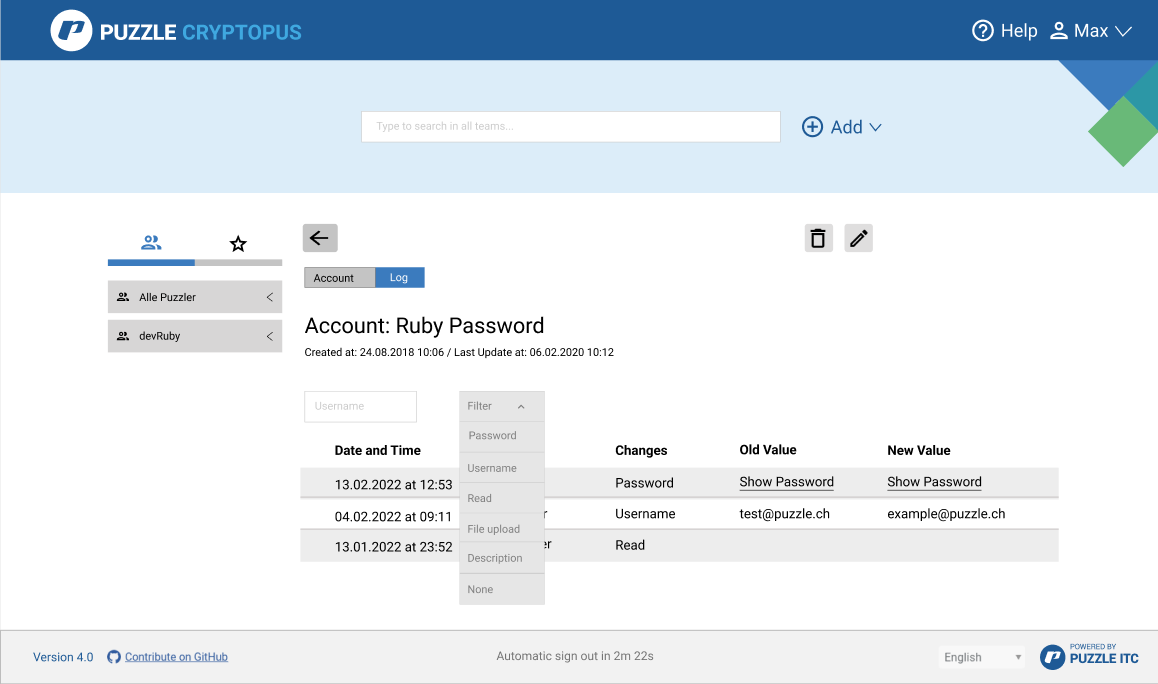
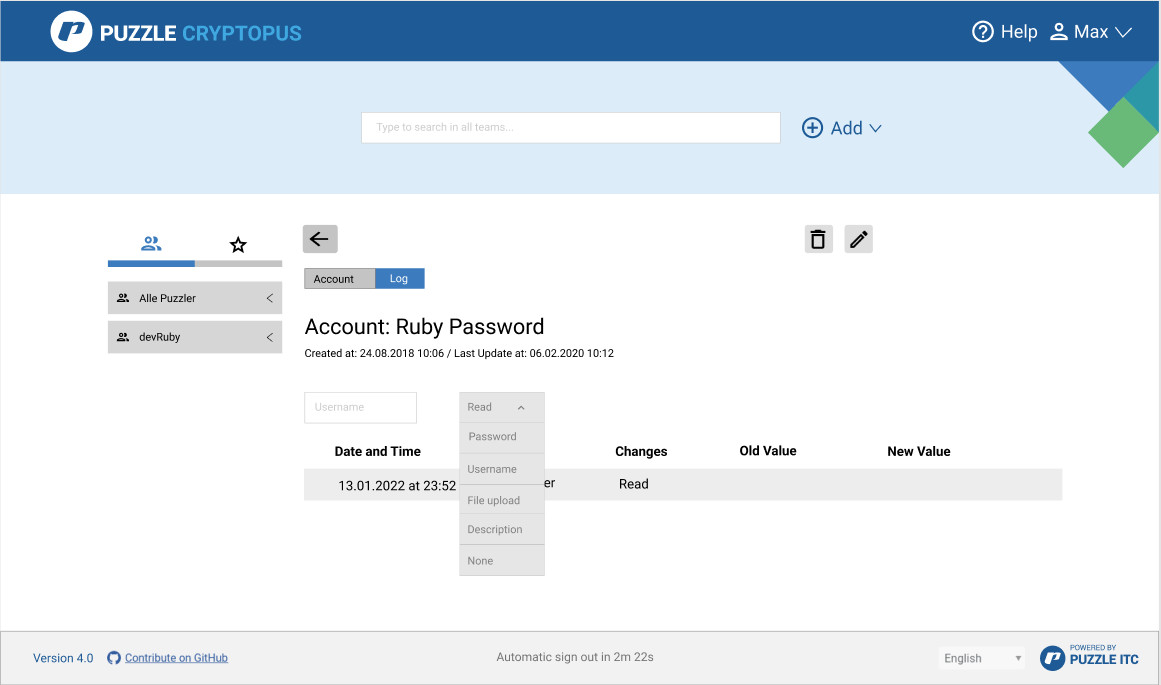
Add new images and update readme with latest text

diff --git a/README.md b/README.md
@@ -1,1 +1,136 @@
-# kon-cryptopus-access-log-history
+# Access and changelog conception
+
+### Current situation
+Currently, you can save your passwords in cryptopus. You can add new accounts with name, username, password and description. You can also share your team with multiple passwords and folders with other members. Then everybody who's added to this team can CRUD the values. 
+
+### Motivation
+If multiple members work with one team in cryptopus, it can quickly become confusing. For example, someone updates a password for an account, but someone has to use the old password. Because of this, it would be useful to have an access- and changelog, where you can see, who updated what with which value.
+
+
+### How you can access the page
+There will be a new tab with the name "Log", when you open the detail view of an account. The account page would then look something like this: 
+
+![Account page with new tab](/images/EncryptablesPageWithNewTab.png)
+
+
+### Versions
+#### Log page minimal example:
+In the new tab "Log", you can see who accessed the account. This would be, if someone opens the account page, copied an attribute or edited something. Additionally, you can see, which date and time the access has been. 
+
+![Minimum example](/images/MinimalExampleLogTab.png)
+
+
+#### Log page deluxe example:
+In the tab "Log", you can see who changed or watched the current account. You can see, which date and time the changes were made. Further, you can see the old and also the new value of the changed attribute.
+To see new and old passwords, you have to click on the text. Names, emails or descriptions are displayed directly.
+If someone just watched the account or copied an attribute, then there will be no old and new value, like kmüller.
+
+![Deluxe example](/images/DeluxeExampleLogTab.png)
+
+#### Log page Epic example:
+It would be useful, if we could filter the logs with the changed attribute. We would make this with a drop down with the different attributes which could change. More, we have here a column with the changed attribute and also the old and the new value, the date and time and the user.
+
+![Epic example 1.1](/images/EpicExample1LogPage.png)
+
+![Epic example 1.2](/images/EpicExample2LogPage.png)
+
+![Epic example 1.3](/images/EpicExample3LogPage.png)
+
+
+#### Log page ultra example:
+This is one of the most detailed version of the feature, which we could make. The user can define somewhere in the settings (Profile), his default filter. This filter would be activ, if the user opens a new log page. In this verisons, he could also search for specific users or a date. Of course the user can change the filter with the dropdown menu.
+
+![Ultra example default filter](/images/UltraExample1LogPage.png)
+
+![Ultra example open dropdown menu](/images/UltraExample2LogPage.png)
+
+![Ultra example no filter](/images/UltraExample3LogPage.png)
+
+![Ultra example filter and name search](/images/UltraExample4LogPage.png)
+
+
+### My activity page
+Would be useful, to see all your recent changes. These changes, you can see in the profile. There would be a new time, calles "Changes"
+
+![Profile info page](/images/ProfileInfo.png)
+
+#### My activity minimal example:
+
+Simple, you can see the date, time and place from your recent changes or accesses. The path from the place is clickable, so you can easily move directly to the specific account.
+
+![Minmal changes page 1](/images/MinimalExampleProfileChanges.png)
+
+#### My activity deluxe example:
+
+In the second example, you can see also date, time and place from your changes or accesses. Here, you can click the place-link and move directly to the specific account too. More, you can see your changed or watched attribute and the old and new value of an attribute. To see changed passwords values, you need to click on the text "Show PW".
+
+![Deluxe changes page](/images/DeluxeExampleProfileChanges.png)
+
+
+## New dashboard
+Some people use mostly the same passwords, so it's an effort to search them in all the other passwords. Therefore, it would be useful, to have the recent used passwords directly on the dashboard. Design example:
+
+#### Dashboard example 1
+We have a new column with maximal 5 recent passwords. These are direct links to the passwords and not to the teams. All the other teams are below.
+
+![Dashboard example 1](/images/DashboardExample1.png)
+
+#### Dashboard example 2
+This dashboard looks similar to the current dashboard. But here, we would not list the teams by name (A to Z), but with date of use. The recent used team would be at position 1. Here, the link would be to the team and not to a password.
+
+![Dashboard example 2](/images/DashboardExample2.png)
+
+## Technology
+
+Useful tool for changelog and resetting passwords/username to old values:
+
+[Paper Trail](https://github.com/paper-trail-gem/paper_trail) 
+
+With this, it is easy to get older values of an attribute and so we can easily generate a changelog table. 
+We can get all the data in backend and refresh the frontend with the newest data. 
+
+This is the basic how it works
+```
+widget = Widget.find 153
+widget.name                                 # 'Doobly'
+
+# Add has_paper_trail to Widget model.
+
+widget.versions                             # []
+widget.update name: 'Wotsit'
+widget.versions.last.reify.name             # 'Doobly'
+widget.versions.last.event                  # 'update'
+widget.versions.length                      # 1
+```
+
+##### Rough process
+- Add PaperTrail to Gemfile: ```gem 'paper_trail'```
+- Add a versions table to the database ``` bundle exec rails generate paper_trail:install [--with-changes] ```
+- Migrate the database ``` rails db:migrate ``` or ```bundle exec rake db:migrate```
+- Add ```has_paper_trail``` to the model to track
+ 
+Then basic usage:
+Our models now have a versions method which returns the "paper trail" of changes to our model.
+```
+widget = Widget.find 42
+widget.versions
+# [<PaperTrail::Version>, <PaperTrail::Version>, ...]
+```
+Once we have a version, we can find out what happened:
+```
+v = widget.versions.last
+v.event # 'update', 'create', 'destroy'. See also: Custom Event Names
+widget.versions.reify.attributeName # Old value from the attribute
+```
+Get older versions than the second latest
+```
+widget = Widget.find 42
+version = widget.versions[-2]    # assuming widget has several versions
+previous_version = version.previous
+next_version = version.next
+```
+
+## What we need to discuss 
+
+If the user wants to see the password of an account in the account view, then he must click the password field. This is happening only in the frontend (card-show.hbs Line 43). If the user for example opens a specific account, we can detect this in the backend. But currently, we can't detect if he clicks on "Shows password". Because of that, we need to find a solution. 
+Maybe, we can add a new http call to the backend, so that we can write in the access log, if the user just watched the account or also the password.
